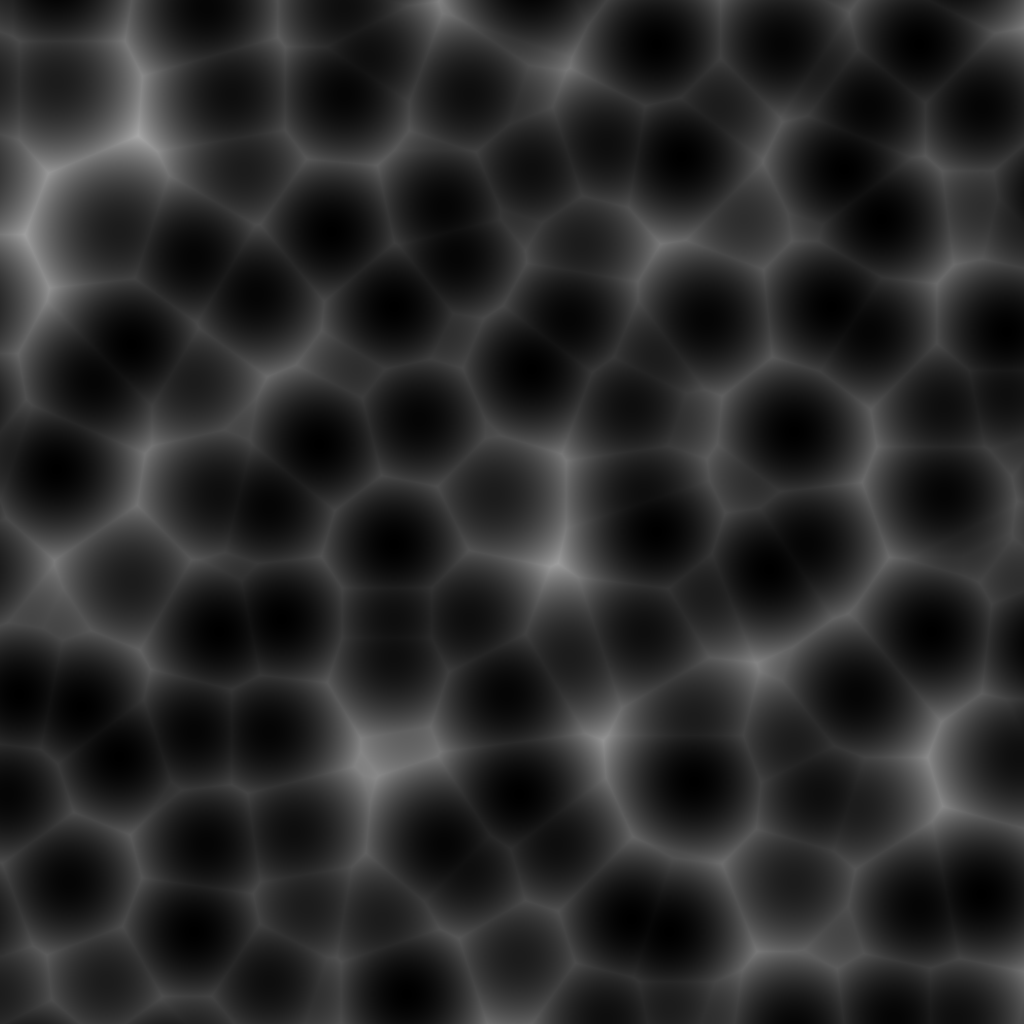
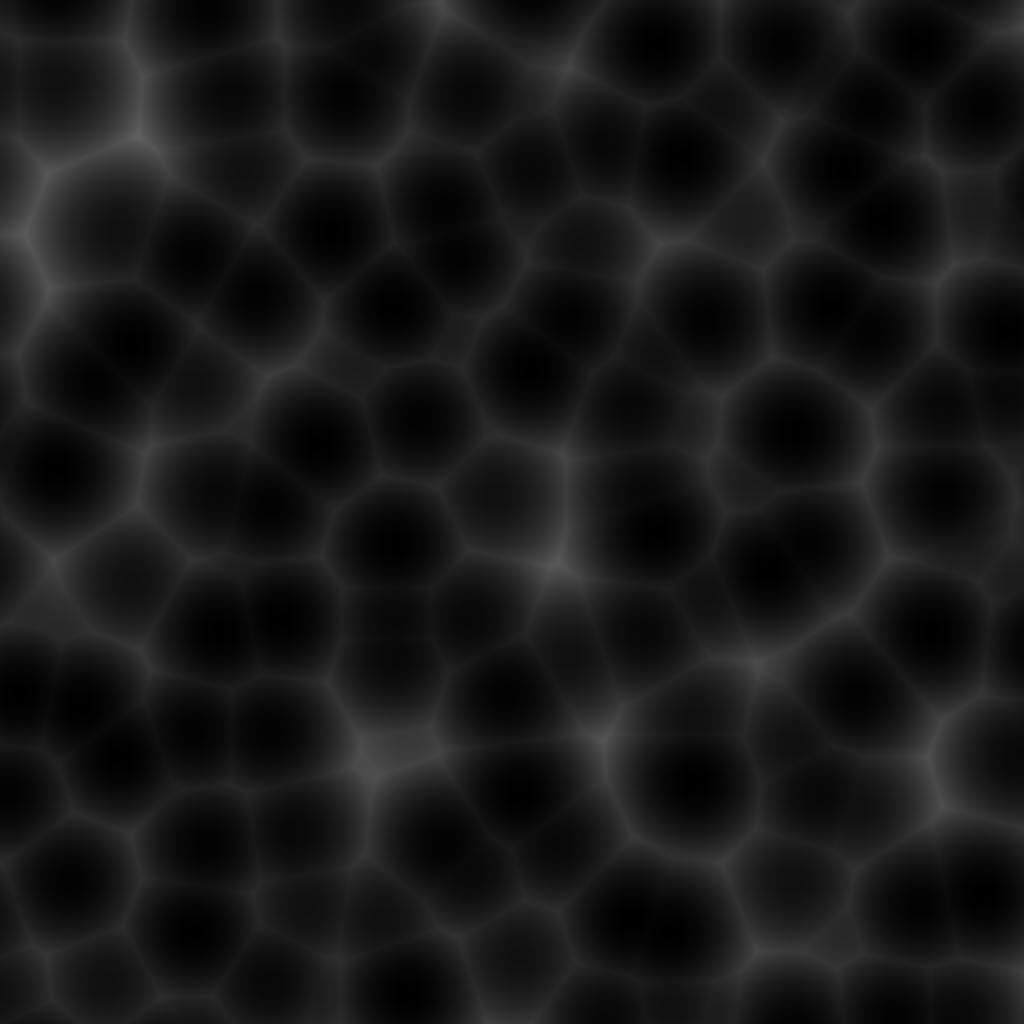
fix test, and adjust scaling factor for cell noise amplitudes:

diff --git a/tests/LinuxMain.swift b/tests/LinuxMain.swift
@@ -104,20 +104,20 @@ try {
     try png_encode(path: "cells3D.png", raw_data: pixbuf_color, properties: png_color)
 }()
 
-let S:fBm<SimplexNoise2D> = FBM<SimplexNoise2D>(amplitude: 0.5*127.5, frequency: 0.001, octaves: 10)
+let S:FBM<SimplexNoise2D> = FBM<SimplexNoise2D>(amplitude: 0.5*127.5, frequency: 0.001, octaves: 10)
 t0 = clock()
 pixbuf = S.sample_area_saturated_to_u8(width: viewer_size, height: viewer_size, offset: 127.5)
 print(clock() - t0)
 try png_encode(path: "simplex.png", raw_data: pixbuf, properties: png_properties)
 
 
-let SS:fBm<SuperSimplexNoise2D> = FBM<SuperSimplexNoise2D>(amplitude: 0.5*127.5, frequency: 0.001, octaves: 10)
+let SS:FBM<SuperSimplexNoise2D> = FBM<SuperSimplexNoise2D>(amplitude: 0.5*127.5, frequency: 0.001, octaves: 10)
 t0 = clock()
 pixbuf = SS.sample_area_saturated_to_u8(width: viewer_size, height: viewer_size, offset: 127.5)
 print(clock() - t0)
 try png_encode(path: "super_simplex.png", raw_data: pixbuf, properties: png_properties)
 
-let SS3D:fBm<SuperSimplexNoise3D> = FBM<SuperSimplexNoise3D>(amplitude: 0.5*127.5, frequency: 0.001, octaves: 10)
+let SS3D:FBM<SuperSimplexNoise3D> = FBM<SuperSimplexNoise3D>(amplitude: 0.5*127.5, frequency: 0.001, octaves: 10)
 t0 = clock()
 pixbuf = SS3D.sample_area_saturated_to_u8(width: viewer_size, height: viewer_size, offset: 127.5)
 print(clock() - t0)

diff --git a/sources/noise/cell.swift b/sources/noise/cell.swift
@@ -9,7 +9,7 @@ struct CellNoise2D:Noise
     public
     init(amplitude:Double, frequency:Double, seed:Int = 0)
     {
-        self.amplitude = amplitude * 1/2.squareRoot()
+        self.amplitude = amplitude * 1/2
         self.frequency = frequency
         self.permutation_table = PermutationTable(seed: seed)
     }
@@ -199,7 +199,7 @@ struct CellNoise3D:Noise
     public
     init(amplitude:Double, frequency:Double, seed:Int = 0)
     {
-        self.amplitude = amplitude * 1/3.squareRoot()
+        self.amplitude = amplitude * 1/3
         self.frequency = frequency
         self.permutation_table = PermutationTable(seed: seed)
     }
